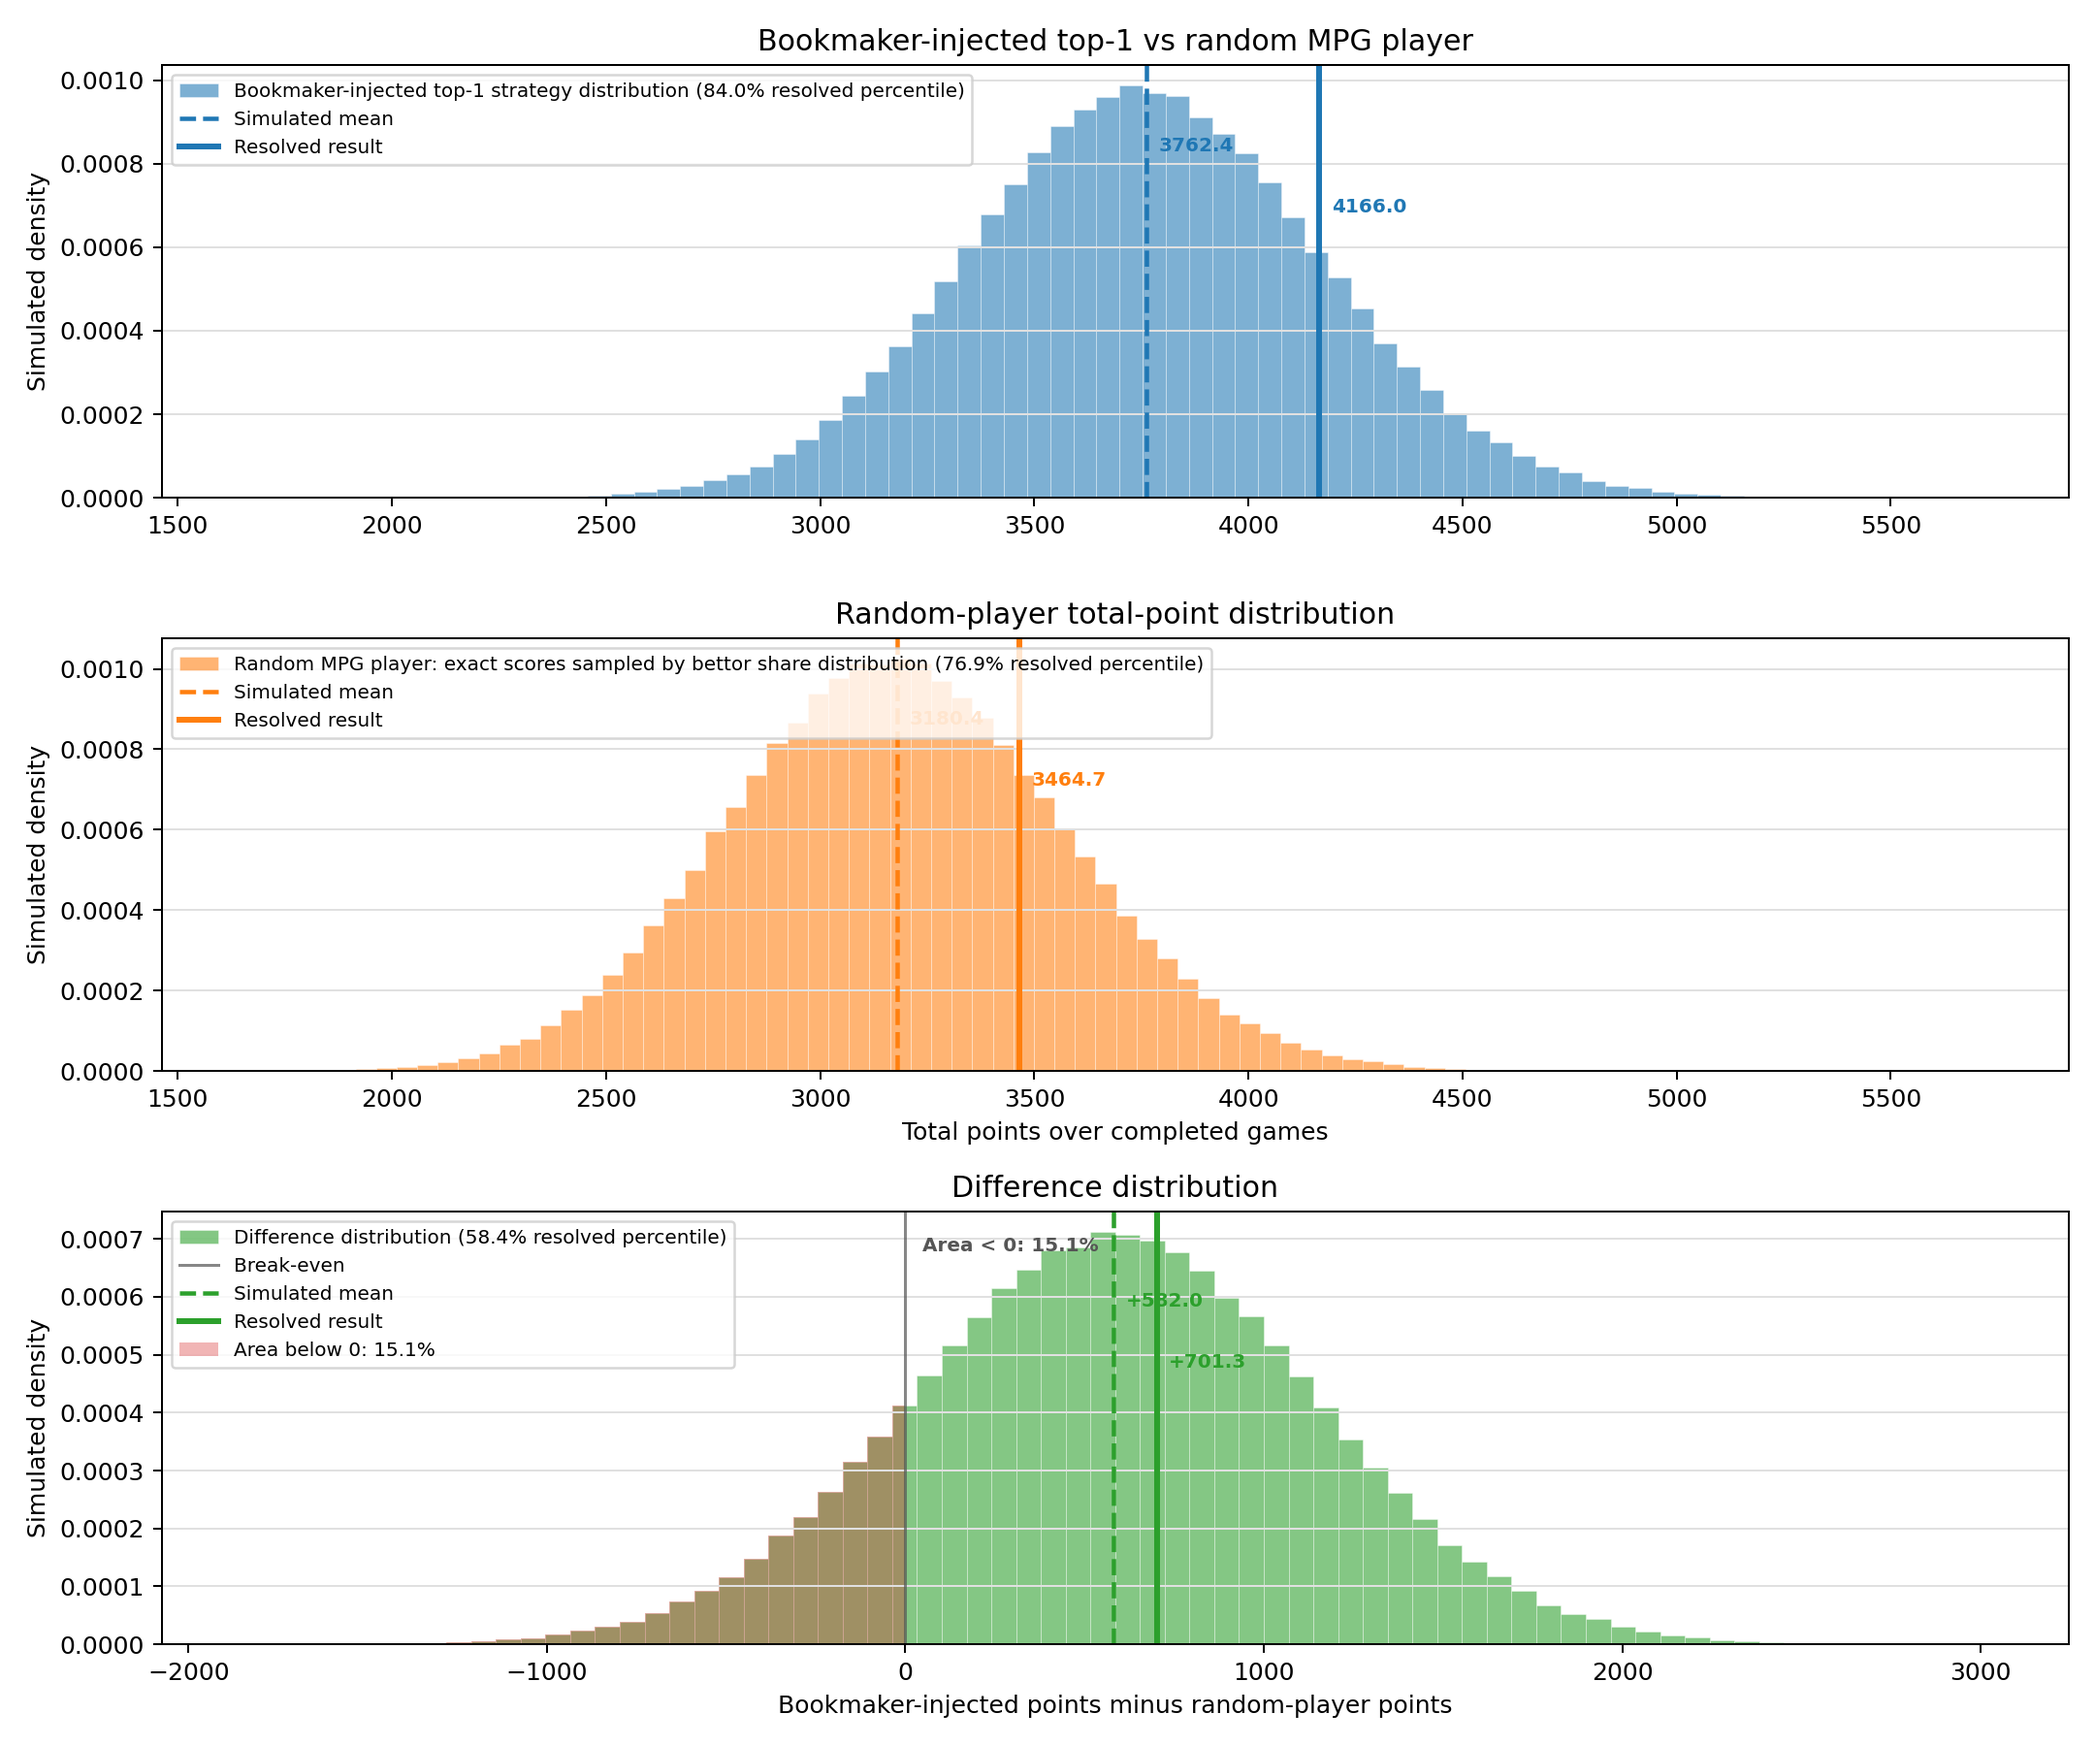
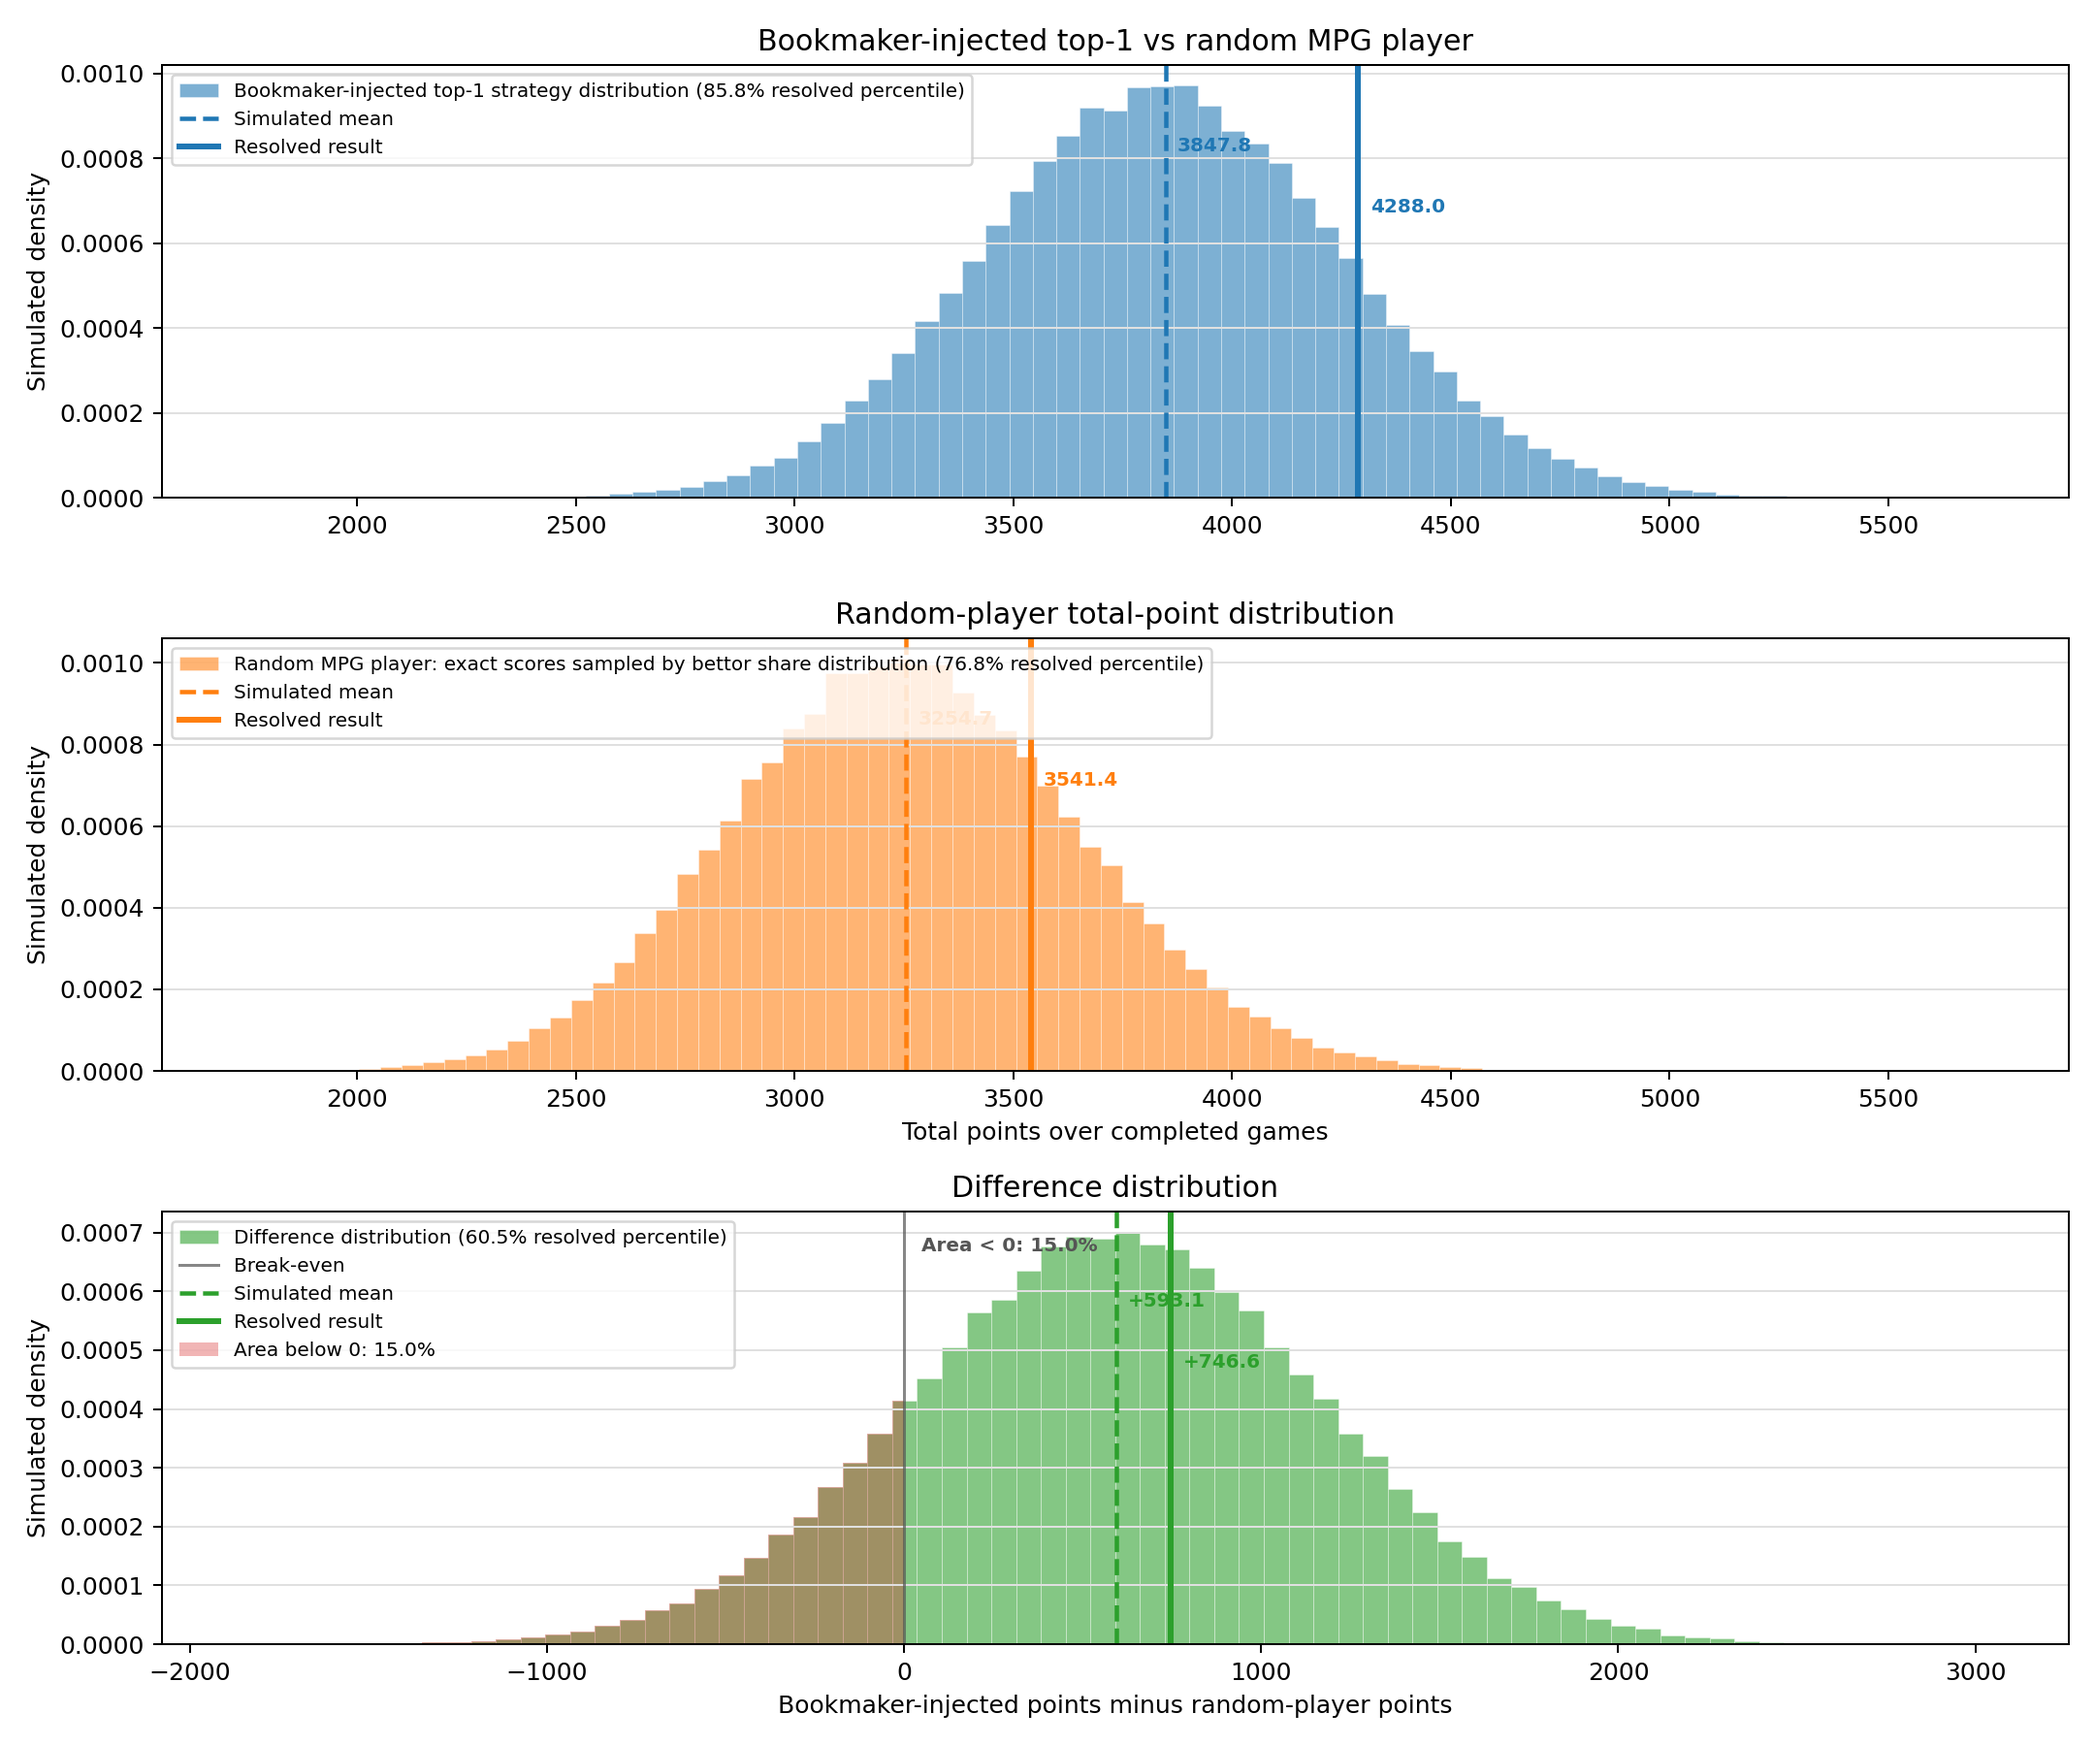
latest

diff --git a/README.md b/README.md
@@ -87,12 +87,12 @@ such as `1-0`.
 
 Latest full run:
 
-- Completed bookmaker-injected top-1 picks: **92**
-- Bookmaker top-1 resolved points: **4166.00**
-- Bookmaker logged EV: **3762.36**
-- Random-player resolved expected points: **3464.66**
-- Realized edge vs random-player baseline: **+701.34**
-- Bookmaker top-1 percentile vs sampled random players: **97.29%**
+- Completed bookmaker-injected top-1 picks: **94**
+- Bookmaker top-1 resolved points: **4288.00**
+- Bookmaker logged EV: **3847.82**
+- Random-player resolved expected points: **3541.37**
+- Realized edge vs random-player baseline: **+746.63**
+- Bookmaker top-1 percentile vs sampled random players: **97.81%**
 
 ![Latest bookmaker-injected top-1 vs random-player simulation](data/analysis/strategy_simulations/bookmaker_injected/top1_vs_random_player_distribution.png)
 
@@ -197,7 +197,9 @@ Legend: `❌` wrong result, `✅` correct result, `🎯` exact score.
 | 🎯 | Paraguay vs France | 0-1 | 0-1 | 28 | 70 | **98** |
 | ❌ | Brazil vs Norway | 1-0 | 1-2 | 0 | 0 | **0** |
 | ✅ | Mexico vs England | 0-1 | 2-3 | 93 | 0 | **93** |
-|  | **Total** |  |  | **3676** | **490** | **4166** |
+| 🎯 | Portugal vs Spain | 0-1 | 0-1 | 72 | 50 | **122** |
+| ❌ | United States vs Belgium | 1-0 | 1-4 | 0 | 0 | **0** |
+|  | **Total** |  |  | **3748** | **540** | **4288** |
 
 ## Quick Start
 
